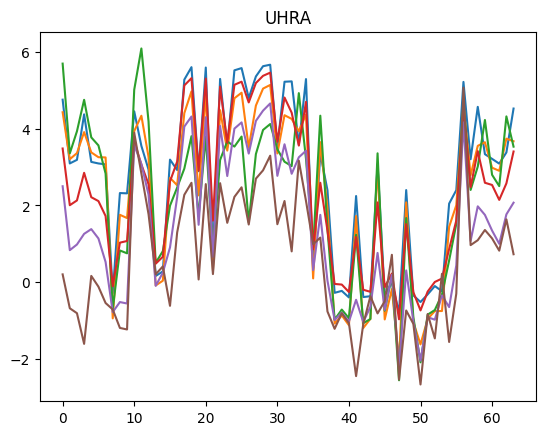
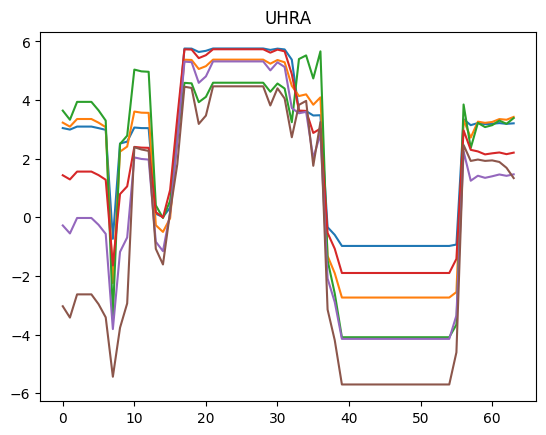
Fixed GAN generation for logs

diff --git a/gan_update/vector_to_image.py b/gan_update/vector_to_image.py
@@ -101,7 +101,7 @@ class GanEvaluator:
 
             diff = soft_output - one_hot_output
 
-            return one_hot
+            return one_hot_output
 
 
         if not output_np:
